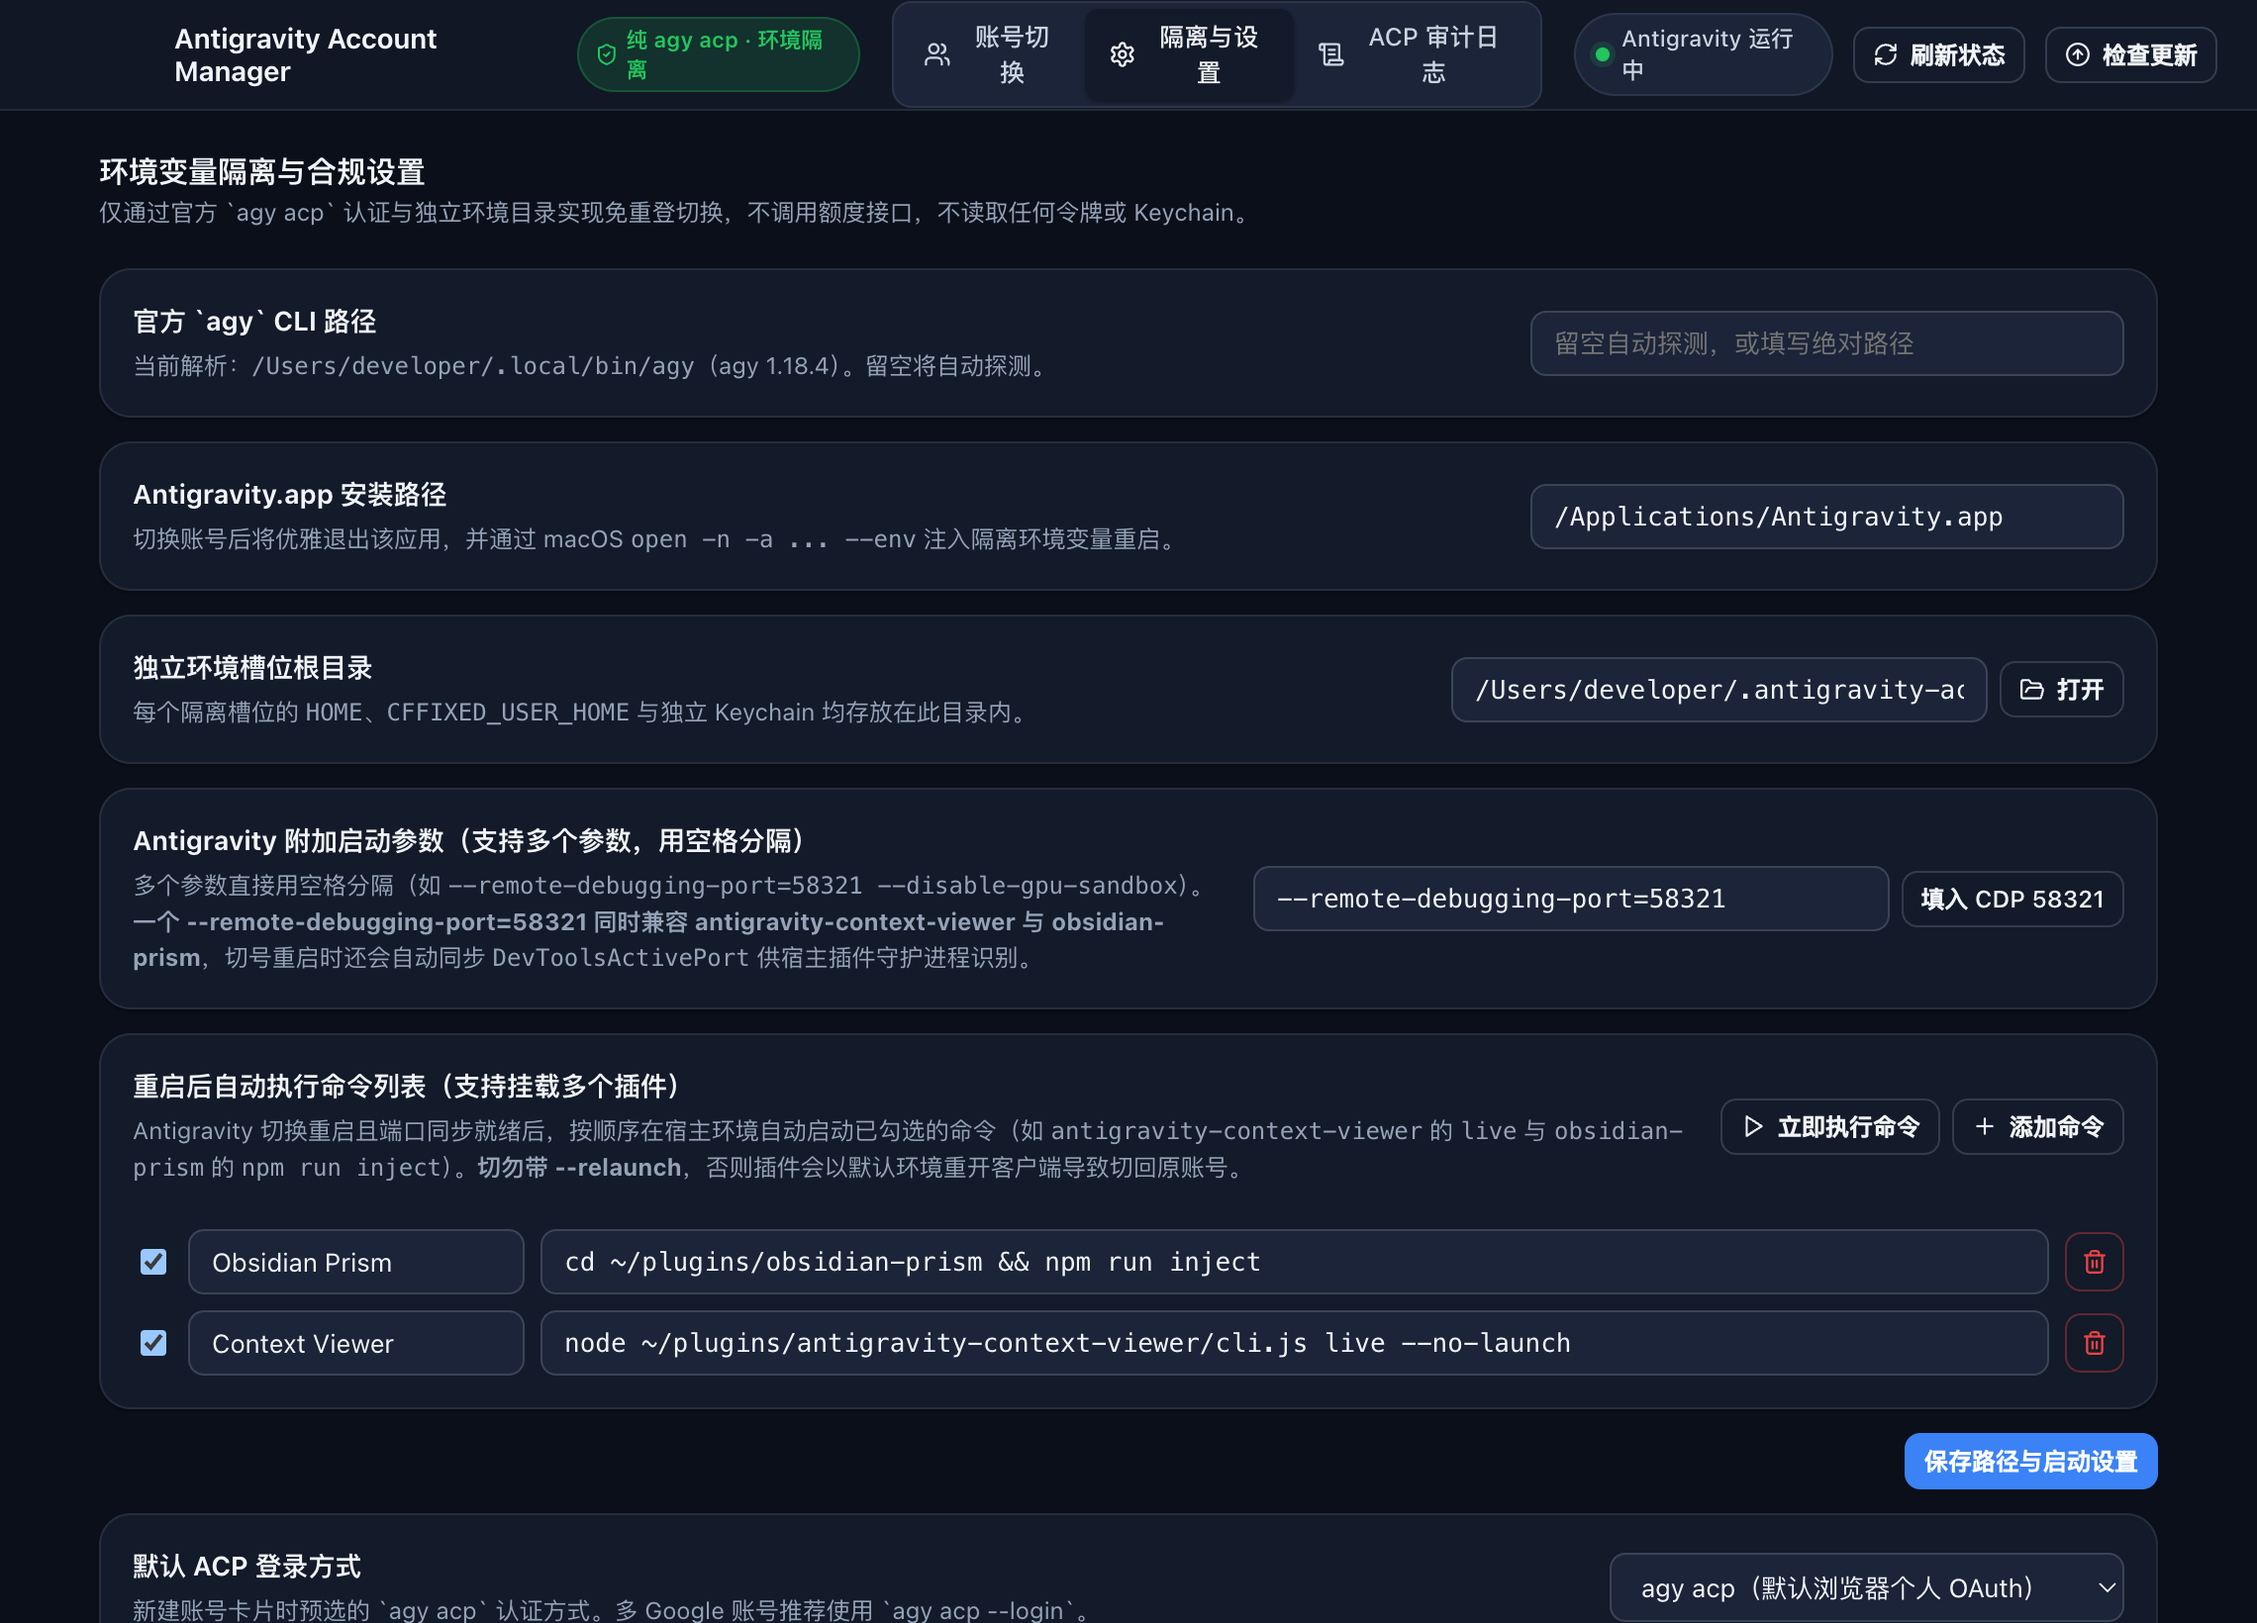
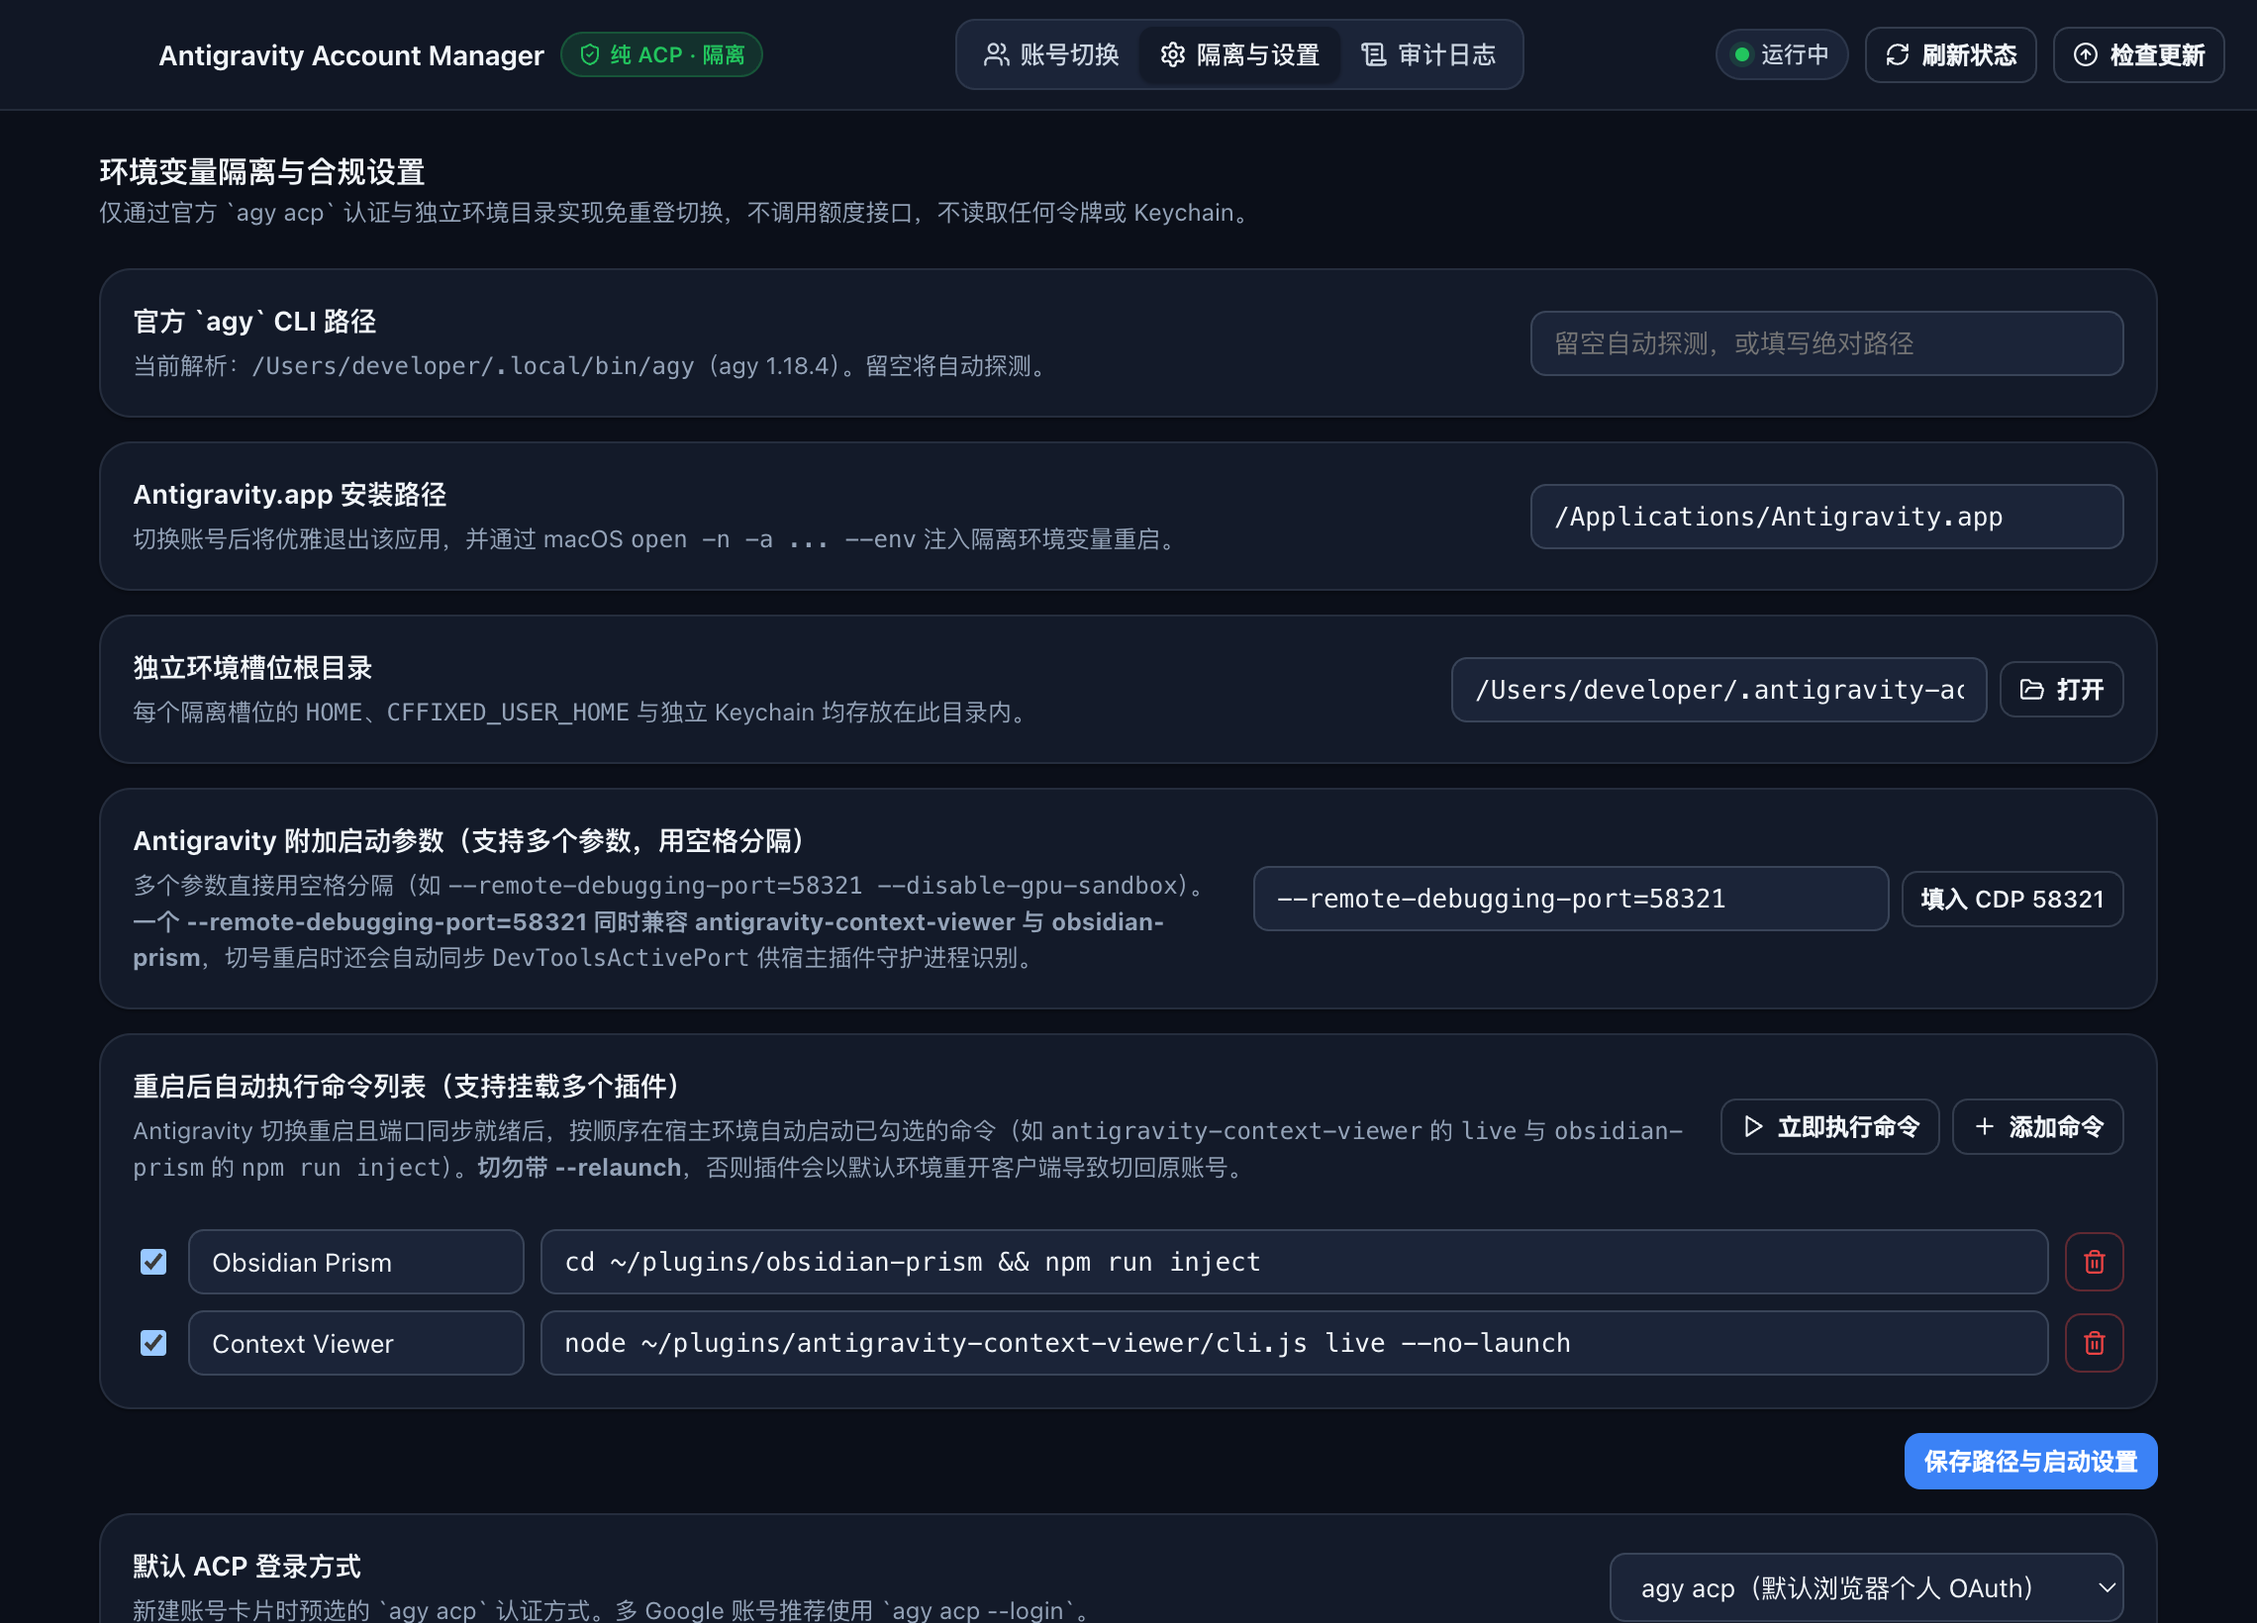
fix: keep top titlebar strictly single-line without wrapping

Changed region(s): [[0.0623, 0.0, 0.6851, 0.0622], [0.7162, 0.0, 0.9965, 0.0622], [0.6851, 0.0311, 0.7162, 0.0622]]

diff --git a/src/styles.css b/src/styles.css
@@ -81,16 +81,17 @@ textarea {
 
 .titlebar {
   height: 56px;
-  padding: 0 20px 0 88px;
+  padding: 0 16px 0 80px;
   display: flex;
   align-items: center;
   justify-content: space-between;
-  gap: 16px;
+  gap: 10px;
   background: var(--bg-elevated);
   backdrop-filter: blur(18px);
   border-bottom: 1px solid var(--border);
   -webkit-app-region: drag;
   flex-shrink: 0;
+  overflow: hidden;
 }
 
 .titlebar-left,
@@ -98,7 +99,14 @@ textarea {
 .titlebar-right {
   display: flex;
   align-items: center;
-  gap: 10px;
+  gap: 8px;
+  flex-shrink: 0;
+  white-space: nowrap;
+}
+
+.titlebar-left {
+  min-width: 0;
+  flex-shrink: 1;
 }
 
 .no-drag {
@@ -112,6 +120,14 @@ textarea {
   font-weight: 650;
   font-size: 14px;
   letter-spacing: -0.01em;
+  min-width: 0;
+  white-space: nowrap;
+}
+
+.brand span {
+  overflow: hidden;
+  text-overflow: ellipsis;
+  white-space: nowrap;
 }
 
 .brand-badge {
@@ -125,6 +141,14 @@ textarea {
   background: var(--good-soft);
   color: var(--good);
   border: 1px solid rgba(34, 197, 94, 0.25);
+  white-space: nowrap;
+  flex-shrink: 0;
+}
+
+@media (max-width: 1080px) {
+  .brand-badge {
+    display: none;
+  }
 }
 
 .segmented {
@@ -133,6 +157,8 @@ textarea {
   padding: 3px;
   border-radius: 10px;
   border: 1px solid var(--border);
+  white-space: nowrap;
+  flex-shrink: 0;
 }
 
 .segmented button {
@@ -141,12 +167,14 @@ textarea {
   color: var(--text-secondary);
   font-size: 12.5px;
   font-weight: 500;
-  padding: 5px 12px;
+  padding: 5px 10px;
   border-radius: 7px;
   cursor: pointer;
   display: inline-flex;
   align-items: center;
-  gap: 6px;
+  gap: 5px;
+  white-space: nowrap;
+  flex-shrink: 0;
   transition: all 0.15s ease;
 }
 
@@ -160,13 +188,15 @@ textarea {
   display: inline-flex;
   align-items: center;
   gap: 6px;
-  padding: 4px 10px;
+  padding: 4px 9px;
   border-radius: 999px;
   font-size: 11.5px;
   font-weight: 500;
   background: var(--bg-muted);
   border: 1px solid var(--border);
   color: var(--text-secondary);
+  white-space: nowrap;
+  flex-shrink: 0;
 }
 
 .dot {

diff --git a/src/components/Header.tsx b/src/components/Header.tsx
@@ -47,12 +47,18 @@ export function Header({
       : 'good';
 
   const statusText = !runtimeInfo
-    ? '检测中...'
+    ? '检测中'
     : runtimeInfo.error
       ? 'agy 未就绪'
       : appStatus?.running
-        ? 'Antigravity 运行中'
-        : 'Antigravity 未运行';
+        ? '运行中'
+        : '未运行';
+
+  const statusTooltip = !runtimeInfo
+    ? '正在检测 agy CLI 与 Antigravity 运行状态...'
+    : runtimeInfo.error
+      ? runtimeInfo.error
+      : `${appStatus?.running ? 'Antigravity 运行中' : 'Antigravity 未运行'} | agy: ${runtimeInfo.agyPath ?? '未检测到'}`;
 
   return (
     <header className="titlebar">
@@ -65,7 +71,7 @@ export function Header({
           title="仅使用官方 agy acp 认证与独立环境变量隔离，绝不调用额度接口或读取令牌"
         >
           <ShieldCheck size={12} />
-          纯 agy acp · 环境隔离
+          纯 ACP · 隔离
         </span>
       </div>
 
@@ -93,13 +99,13 @@ export function Header({
             onClick={() => onTabChange('audit')}
           >
             <ScrollText size={14} />
-            ACP 审计日志
+            审计日志
           </button>
         </div>
       </div>
 
       <div className="titlebar-right no-drag">
-        <div className="status-pill" title={runtimeInfo?.agyPath ?? '未检测到 agy'}>
+        <div className="status-pill" title={statusTooltip}>
           <span className={`dot ${dotClass}`} />
           <span>{statusText}</span>
         </div>
